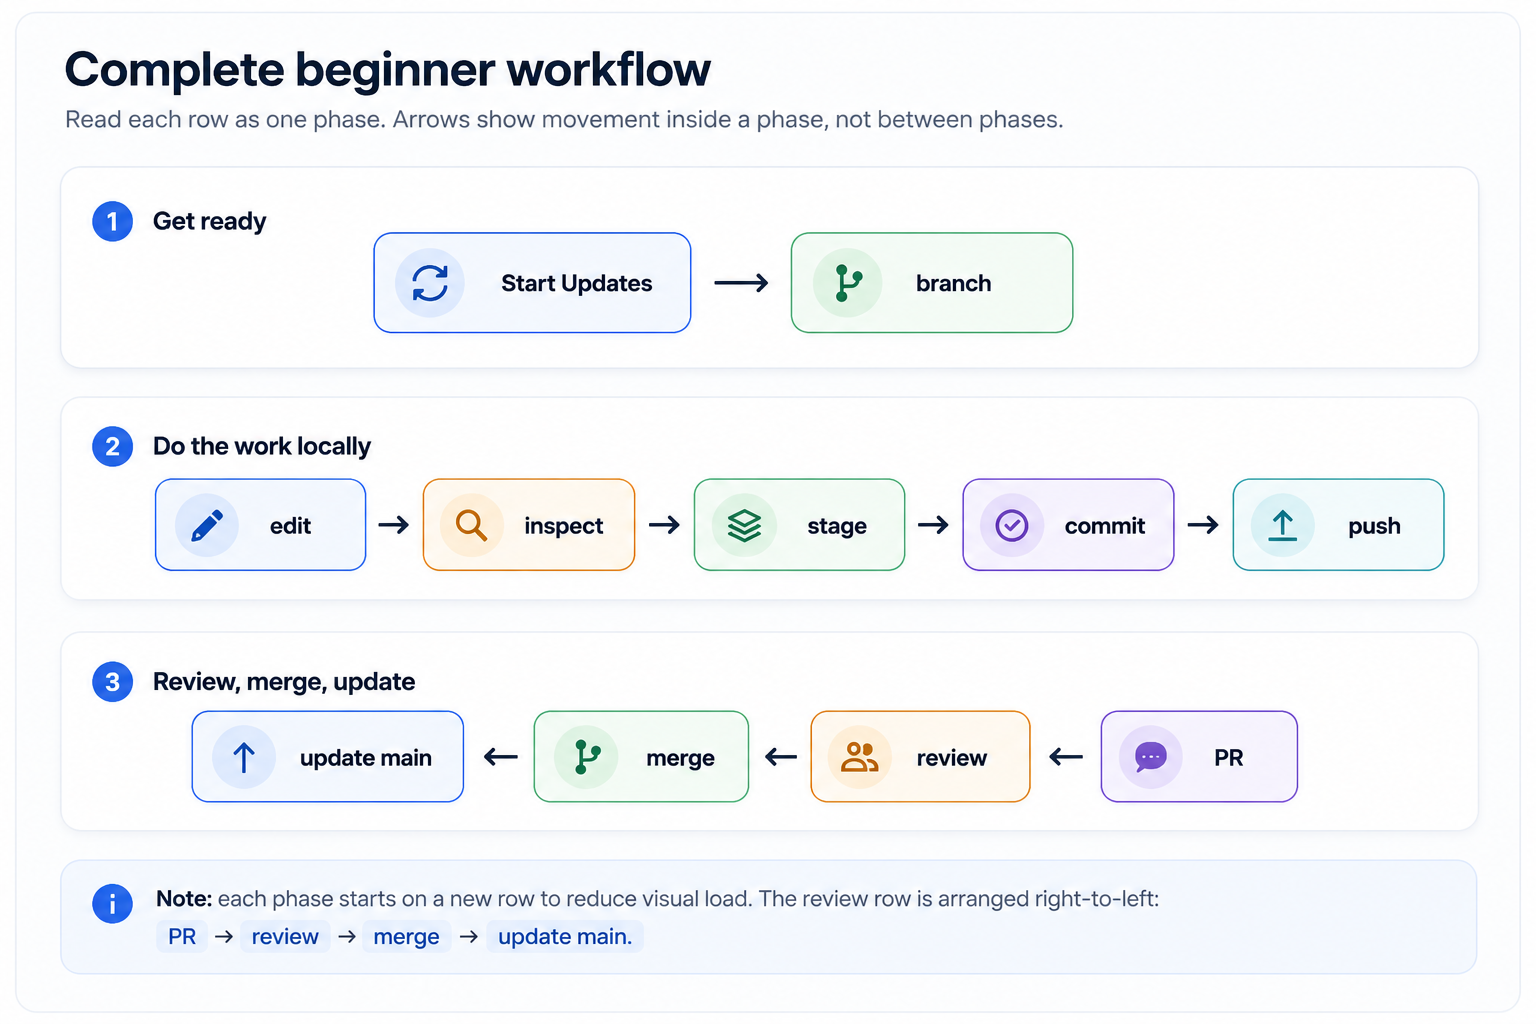
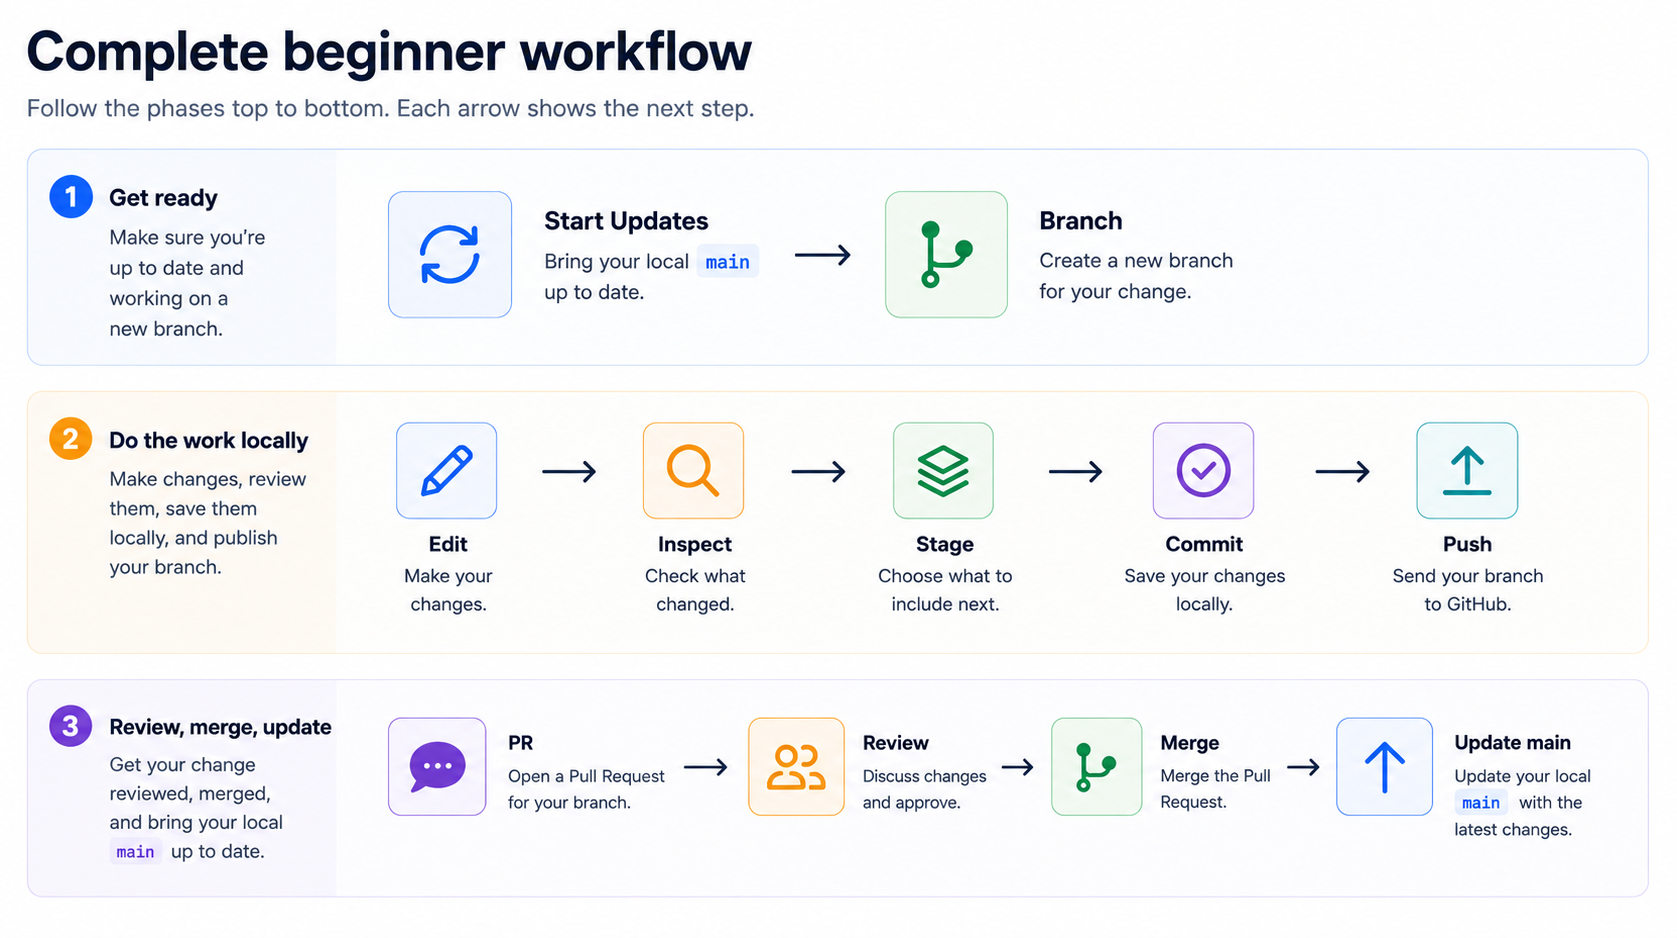
Content adjustment

diff --git a/src/content/docs/lessons/08-complete-workflow.md b/src/content/docs/lessons/08-complete-workflow.md
@@ -8,8 +8,6 @@ sidebar:
 
 Practice the full Git/GitHub workflow from start to finish in a learner-owned practice repository.
 
-![Concept card showing the complete beginner workflow: sync, branch, change, push, review, merge, and sync again.](/git-basics/images/git-basics-lesson-08-complete-beginner-workflow.png)
-
 By this point, the commands should start to feel less like separate facts and more like one repeatable work pattern.
 
 Use the [GitHub Basics infographic](/git-basics/resources/github-basics-infographic/) as the map for this lesson. Each checklist section below corresponds to one part of the safe collaboration loop.

diff --git a/src/content/docs/lessons/01-what-git-and-github-are.md b/src/content/docs/lessons/01-what-git-and-github-are.md
@@ -8,8 +8,6 @@ sidebar:
 
 Understand what Git and GitHub do, and why teams use them.
 
-![Concept card showing Git as local project history and GitHub as the shared place for review and collaboration.](/git-basics/images/git-basics-lesson-01-what-git-and-github-do.png)
-
 ## Big picture
 
 Keep the [GitHub Basics infographic](/git-basics/resources/github-basics-infographic/) nearby while you learn the vocabulary. The details will become familiar through practice, but the main loop is simple: branch, edit, commit, push, open a pull request, review, merge, then sync again.

diff --git a/src/content/docs/lessons/04-status-staging-commits.md b/src/content/docs/lessons/04-status-staging-commits.md
@@ -8,8 +8,6 @@ sidebar:
 
 Make one small change in the practice repository, inspect what changed, and save it in Git history as a commit.
 
-![Concept card showing edits moving from working files to staging and then into local Git history as a commit.](/git-basics/images/git-basics-lesson-04-status-staging-and-commits.png)
-
 This lesson is deliberately slow. The skill is not typing commands quickly; the skill is knowing what Git knows before you move to the next step.
 
 ## Mental model

diff --git a/src/content/docs/lessons/03-cloning-a-repository.md b/src/content/docs/lessons/03-cloning-a-repository.md
@@ -8,8 +8,6 @@ sidebar:
 
 Copy a GitHub repository to your computer and confirm that Git can see it correctly.
 
-![Concept card showing a GitHub repository copied into a local folder with files, history, and the origin connection.](/git-basics/images/git-basics-lesson-03-cloning-a-repository.png)
-
 ## What cloning means
 
 To **clone** a repository means to download a full working copy from GitHub to your computer.

diff --git a/src/content/docs/lessons/07-pull-requests.md b/src/content/docs/lessons/07-pull-requests.md
@@ -8,8 +8,6 @@ sidebar:
 
 Open a pull request so someone can review your branch before it is merged.
 
-![Concept card showing a pull request as the review bridge from a branch into main.](/git-basics/images/git-basics-lesson-07-pull-requests.png)
-
 ## What a pull request is
 
 A **pull request**, or **PR**, is a request to merge one branch into another branch.

diff --git a/src/content/docs/lessons/06-branching.md b/src/content/docs/lessons/06-branching.md
@@ -8,8 +8,6 @@ sidebar:
 
 Create a branch so you can work safely without changing `main` directly.
 
-![Concept card showing main, a feature branch, and the point where a pushed branch becomes shared work.](/git-basics/images/git-basics-lesson-06-branching.png)
-
 ## What a branch is
 
 A **branch** is a separate workspace for a change.

diff --git a/src/content/docs/lessons/02-setup-and-orientation.md b/src/content/docs/lessons/02-setup-and-orientation.md
@@ -8,8 +8,6 @@ sidebar:
 
 Confirm Git is installed and configured with your name and email.
 
-![Concept card showing setup checks: Git installed, identity configured, and terminal oriented inside the repository.](/git-basics/images/git-basics-lesson-02-setup-and-first-orientation.png)
-
 ## Checklist
 
 ### 1. Confirm Git is installed
